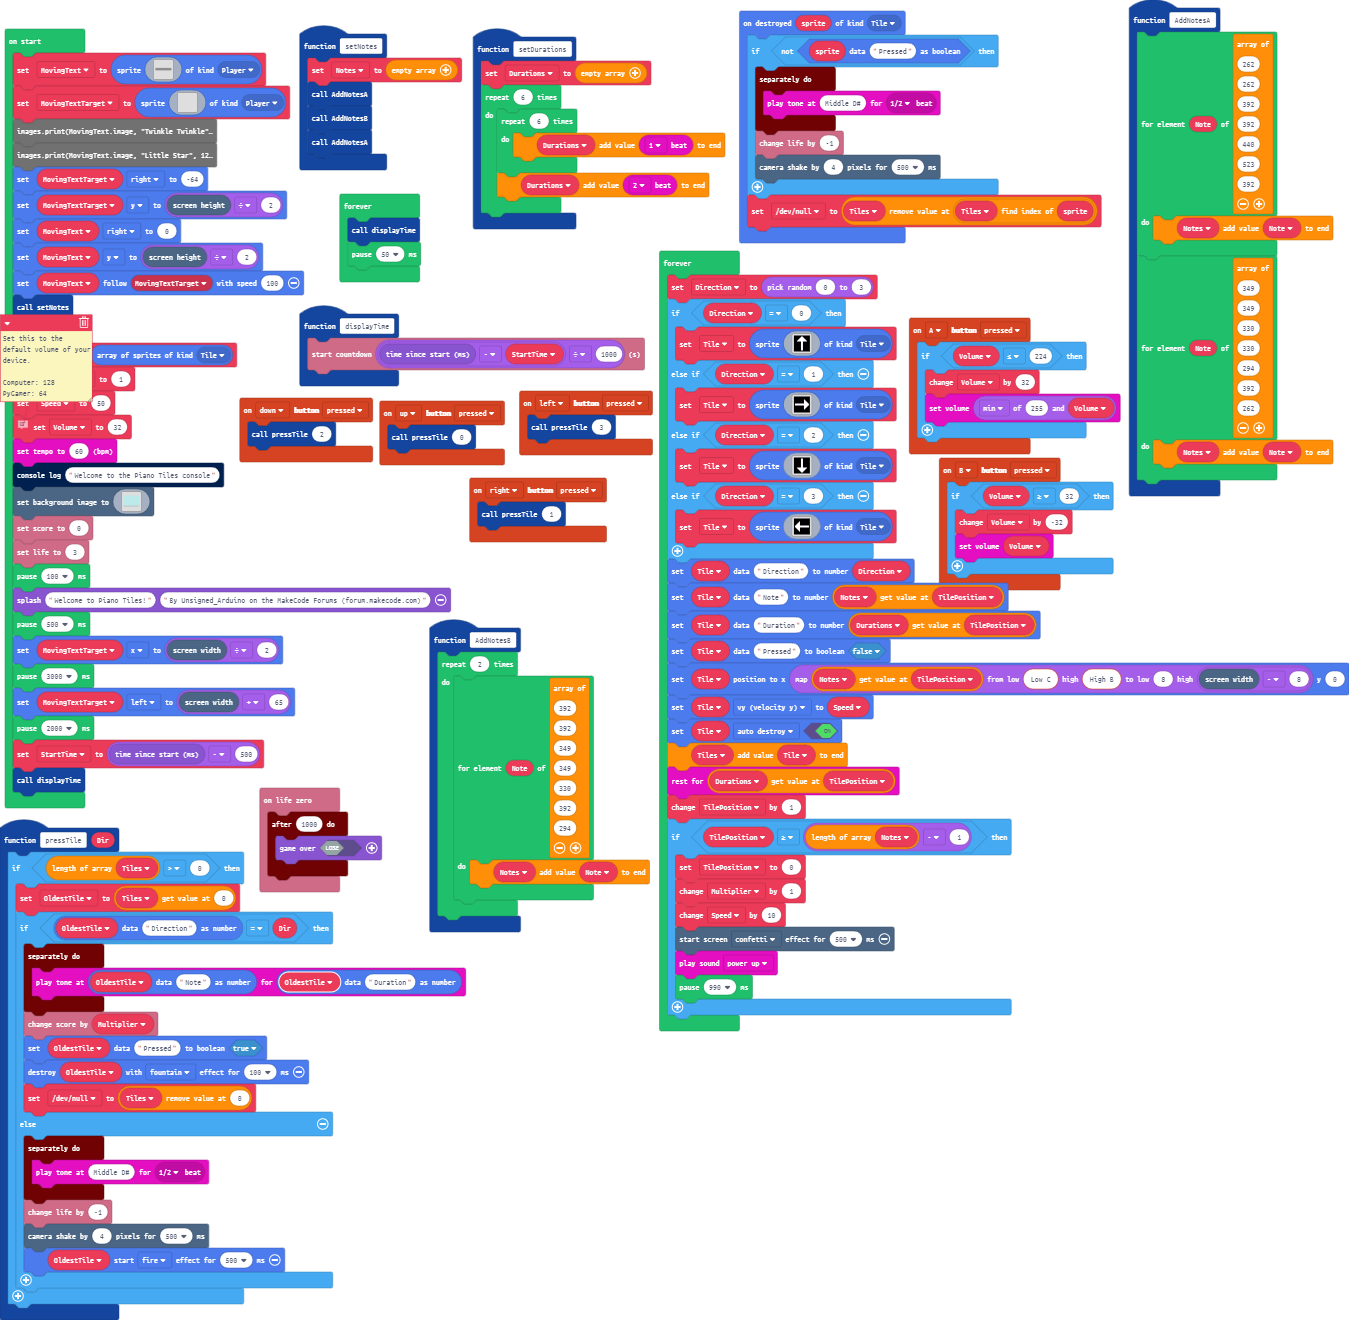
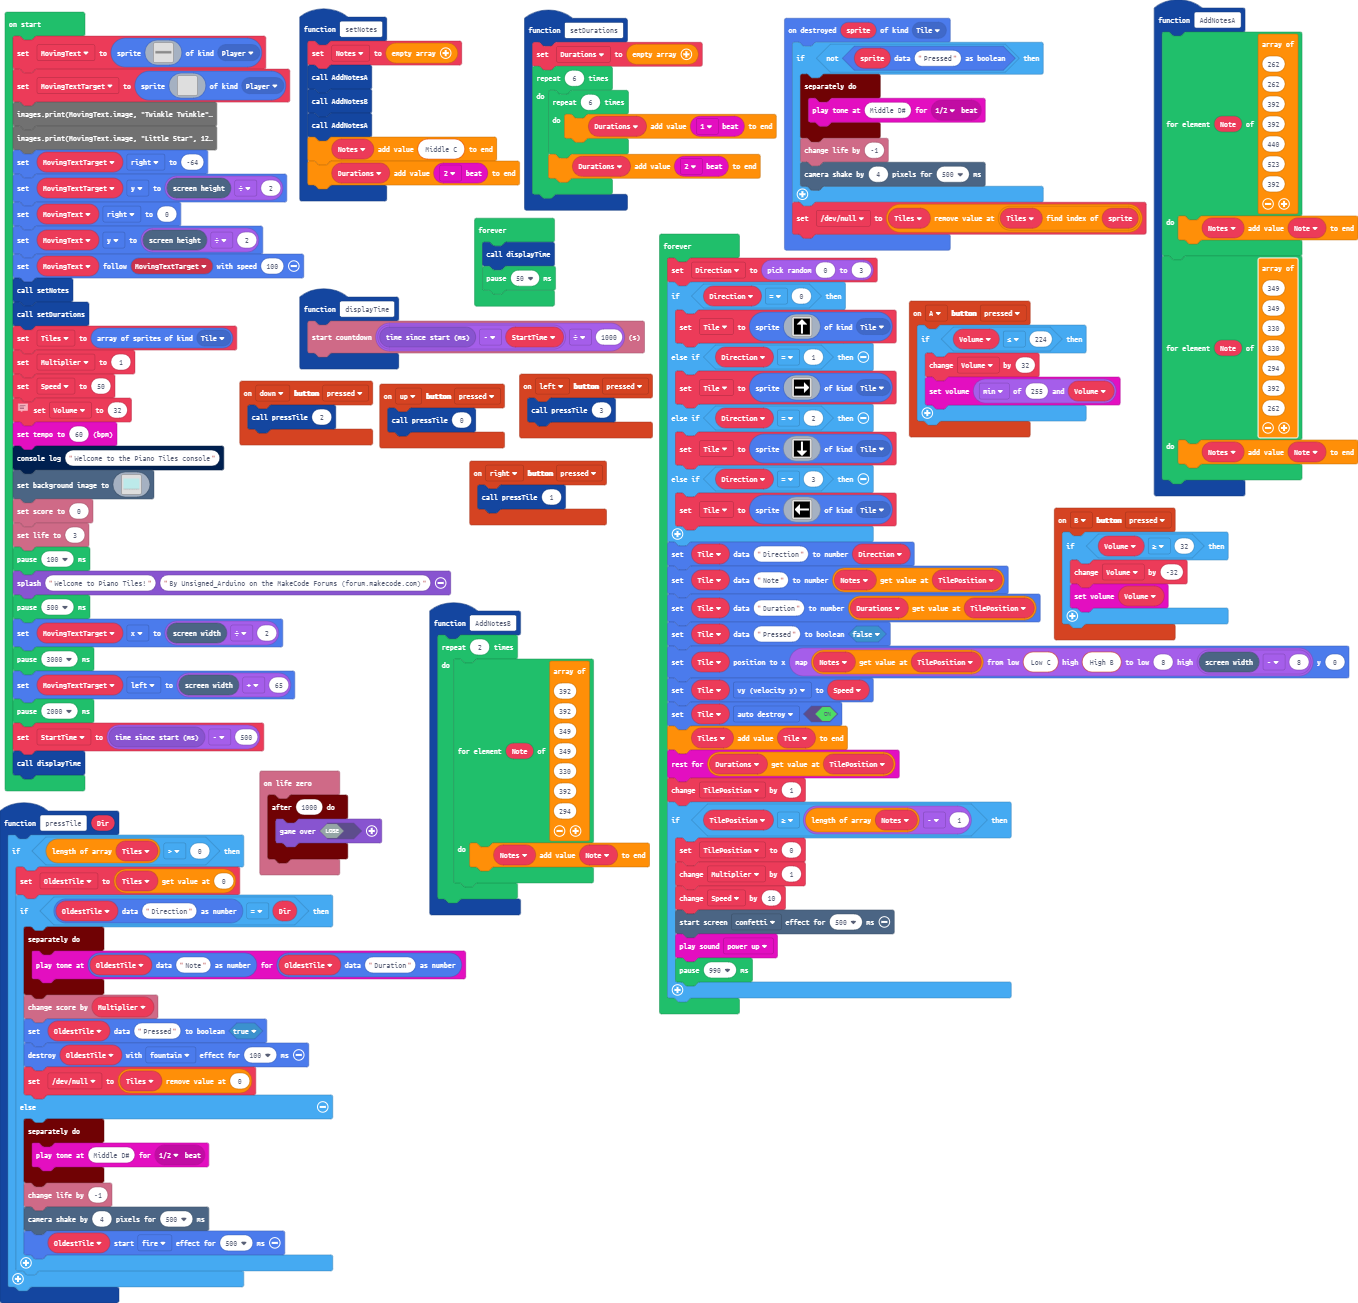
Fixed bug where last middle c in melody didn't appear

diff --git a/main.ts b/main.ts
@@ -37,6 +37,8 @@ function setNotes () {
     AddNotesA()
     AddNotesB()
     AddNotesA()
+    Notes.push(262)
+    Durations.push(music.beat(BeatFraction.Double))
 }
 controller.B.onEvent(ControllerButtonEvent.Pressed, function () {
     if (Volume >= 32) {
